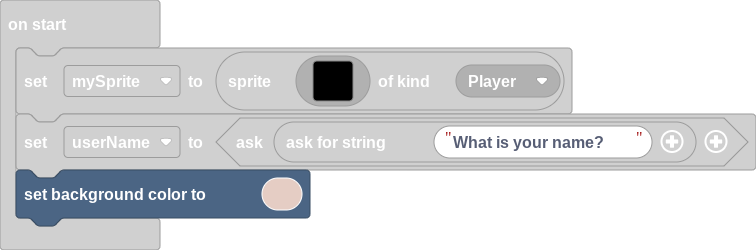
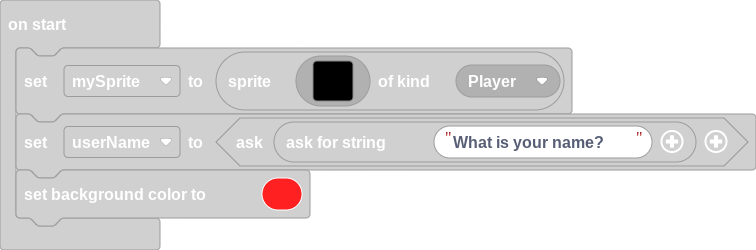
Update main.blocks, main.ts

Changed region(s): [[0.0, 0.672, 0.4259, 0.924]]

diff --git a/main.ts b/main.ts
@@ -17,4 +17,4 @@ let mySprite = sprites.create(img`
     . . . . . . . . . . . . . . . . 
     `, SpriteKind.Player)
 let userName = game.ask(game.askForString("What is your name?"))
-scene.setBackgroundColor(13)
+scene.setBackgroundColor(2)
